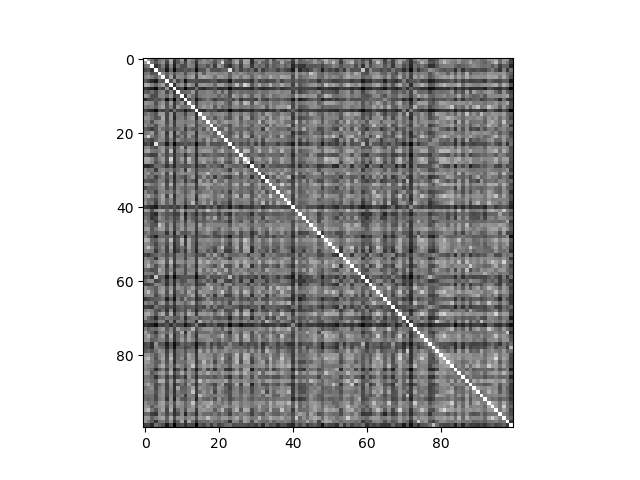
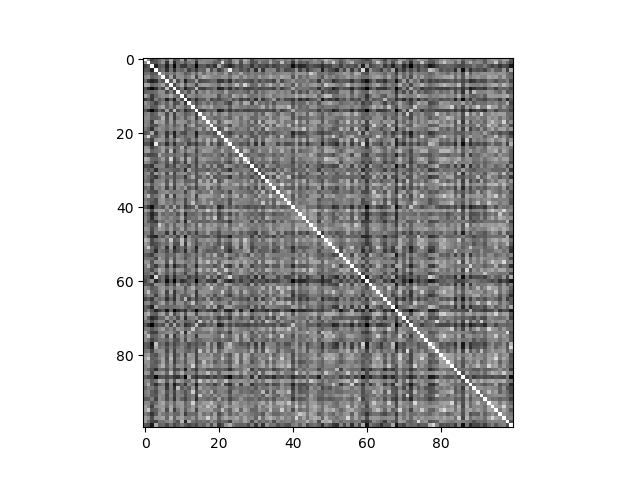
Assignment 7. Improvement of the dist_MA function.
It seems that the professor's description of 'dist_MA' is wrong.
With this guess, I've got smaller error counts that the previous
implementation and even less error counts than 'dist_2'.

Changed region(s): [[0.2188, 0.125, 0.8125, 0.9062], [0.7812, 0.8438, 0.8125, 0.9062]]

diff --git a/libdist.c b/libdist.c
@@ -72,12 +72,11 @@ double dist_MA(const double* A,const double* B,const size_t N){
 	for(size_t i=1;i<=N;++i)
 		for(size_t j=1;j<=N;++j){
 			double vx = phi[(i+1)*Npad+j]-phi[(i-1)*Npad+j],
-				vy = phi[i*Npad+j+1]-phi[i*Npad+j-1],
-				s = At[i*Npad+j]+Bt[i*Npad+j];
-			I += s*(vx*vx+vy*vy);
+				vy = phi[i*Npad+j+1]-phi[i*Npad+j-1];
+//				s = A[(i-1)*N+(j-1)]-B[(i-1)*N+(j-1)];
+			I += ( vx*vx+vy*vy);
 		}
 		
-	I*=0.25;
 	
 	free(At);	
 	free(Bt);	

diff --git a/init.py b/init.py
@@ -119,5 +119,5 @@ if __name__ == '__main__':
 	
 	#print( dist_MA(x_train[0],x_train[1])  )
 	#print( dist_2(x_train[0],x_train[1])  )
-	
+
 	compute_error_dist_matrix_for_distMA()

diff --git a/README.md b/README.md
@@ -98,7 +98,7 @@ dist_matrix for 100 images of size (28, 28) using dist_MA: 7.75710 seconds
 ```
 
 The errors of the distance table for *N=100,200,400,800,1600* are
-`[0.25, 0.2, 0.1425, 0.12875, 0.1225]` respectively.
+`[0.14, 0.105, 0.1025, 0.0975, 0.075625]` respectively.
 
 Distance table for the first *N=100* images using the function `dist_MA`.
 <img src="./dist_MA.png" alt="Drawing" style="width: 800px;"/>
